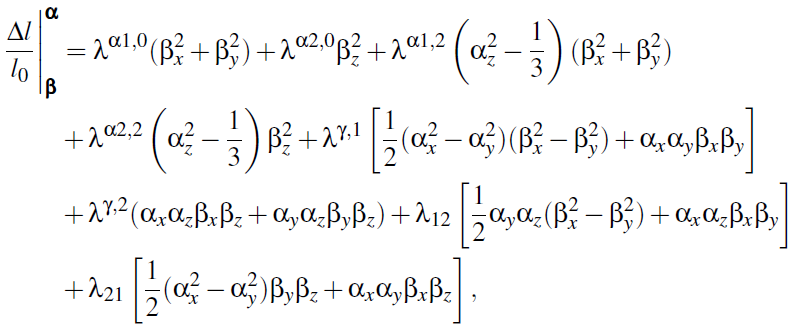
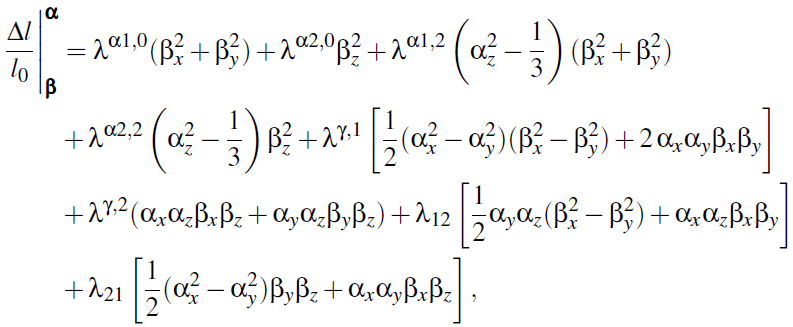
fix trigonal

Changed region(s): [[0.7869, 0.3058, 0.9987, 0.5505]]

diff --git a/maelasviewer.py b/maelasviewer.py
@@ -2154,7 +2154,7 @@ def update_trfig(hx,hy,hz,lmb01,lmb02,lmba1,lmba2,lmbg1,lmbg2,lmb12,lmb21,s,kk1,
     bx = np.sin(u)*np.cos(v)
     by = np.sin(u)*np.sin(v)
     bz = np.cos(u)
-    f = lmb01*(bx**2+by**2)+lmb02*(bz**2)+lmba1*((az**2)-(1/3))*(bx**2+by**2)+lmba2*((az**2)-(1/3))*(bz**2)+lmbg1*(0.5*(ax**2-ay**2)*(bx**2-by**2)+ax*ay*bx*by)+lmbg2*(ax*az*bx*bz+ay*az*by*bz)+lmb12*(0.5*ay*az*(bx**2-by**2)+ax*az*bx*by)+lmb21*(0.5*(ax**2-ay**2)*by*bz+ax*ay*bx*bz)
+    f = lmb01*(bx**2+by**2)+lmb02*(bz**2)+lmba1*((az**2)-(1/3))*(bx**2+by**2)+lmba2*((az**2)-(1/3))*(bz**2)+lmbg1*(0.5*(ax**2-ay**2)*(bx**2-by**2)+2.0*ax*ay*bx*by)+lmbg2*(ax*az*bx*bz+ay*az*by*bz)+lmb12*(0.5*ay*az*(bx**2-by**2)+ax*az*bx*by)+lmb21*(0.5*(ax**2-ay**2)*by*bz+ax*ay*bx*bz)
     x = d*(1.0+s*f)*bx
     y = d*(1.0+s*f)*by
     z = d*(1.0+s*f)*bz
@@ -2269,7 +2269,7 @@ def update_figtr2d(hx,hy,hz,lmb01,lmb02,lmba1,lmba2,lmbg1,lmbg2,lmb12,lmb21,s,kk
     bxxy = np.cos(vxy)
     byxy = np.sin(vxy)
     bzxy = 0.0
-    fxy = lmb01*(bxxy**2+byxy**2)+lmb02*(bzxy**2)+lmba1*((az**2)-(1/3))*(bxxy**2+byxy**2)+lmba2*((az**2)-(1/3))*(bzxy**2)+lmbg1*(0.5*(ax**2-ay**2)*(bxxy**2-byxy**2)+ax*ay*bxxy*byxy)+lmbg2*(ax*az*bxxy*bzxy+ay*az*byxy*bzxy)+lmb12*(0.5*ay*az*(bxxy**2-byxy**2)+ax*az*bxxy*byxy)+lmb21*(0.5*(ax**2-ay**2)*byxy*bzxy+ax*ay*bxxy*bzxy)
+    fxy = lmb01*(bxxy**2+byxy**2)+lmb02*(bzxy**2)+lmba1*((az**2)-(1/3))*(bxxy**2+byxy**2)+lmba2*((az**2)-(1/3))*(bzxy**2)+lmbg1*(0.5*(ax**2-ay**2)*(bxxy**2-byxy**2)+2.0*ax*ay*bxxy*byxy)+lmbg2*(ax*az*bxxy*bzxy+ay*az*byxy*bzxy)+lmb12*(0.5*ay*az*(bxxy**2-byxy**2)+ax*az*bxxy*byxy)+lmb21*(0.5*(ax**2-ay**2)*byxy*bzxy+ax*ay*bxxy*bzxy)
     xxy = d*(1.0+s*fxy)*bxxy
     yxy = d*(1.0+s*fxy)*byxy
     zxy = d*(1.0+s*fxy)*bzxy
@@ -2278,7 +2278,7 @@ def update_figtr2d(hx,hy,hz,lmb01,lmb02,lmba1,lmba2,lmbg1,lmbg2,lmb12,lmb21,s,kk
     bxxz = np.sin(vxz)
     byxz = 0.0
     bzxz = np.cos(vxz)
-    fxz = lmb01*(bxxz**2+byxz**2)+lmb02*(bzxz**2)+lmba1*((az**2)-(1/3))*(bxxz**2+byxz**2)+lmba2*((az**2)-(1/3))*(bzxz**2)+lmbg1*(0.5*(ax**2-ay**2)*(bxxz**2-byxz**2)+ax*ay*bxxz*byxz)+lmbg2*(ax*az*bxxz*bzxz+ay*az*byxz*bzxz)+lmb12*(0.5*ay*az*(bxxz**2-byxz**2)+ax*az*bxxz*byxz)+lmb21*(0.5*(ax**2-ay**2)*byxz*bzxz+ax*ay*bxxz*bzxz)
+    fxz = lmb01*(bxxz**2+byxz**2)+lmb02*(bzxz**2)+lmba1*((az**2)-(1/3))*(bxxz**2+byxz**2)+lmba2*((az**2)-(1/3))*(bzxz**2)+lmbg1*(0.5*(ax**2-ay**2)*(bxxz**2-byxz**2)+2.0*ax*ay*bxxz*byxz)+lmbg2*(ax*az*bxxz*bzxz+ay*az*byxz*bzxz)+lmb12*(0.5*ay*az*(bxxz**2-byxz**2)+ax*az*bxxz*byxz)+lmb21*(0.5*(ax**2-ay**2)*byxz*bzxz+ax*ay*bxxz*bzxz)
     xxz = d*(1.0+s*fxz)*bxxz
     yxz = d*(1.0+s*fxz)*byxz
     zxz = d*(1.0+s*fxz)*bzxz
@@ -2287,7 +2287,7 @@ def update_figtr2d(hx,hy,hz,lmb01,lmb02,lmba1,lmba2,lmbg1,lmbg2,lmb12,lmb21,s,kk
     bxyz = 0.0
     byyz = np.sin(vyz)
     bzyz = np.cos(vyz)
-    fyz = lmb01*(bxyz**2+byyz**2)+lmb02*(bzyz**2)+lmba1*((az**2)-(1/3))*(bxyz**2+byyz**2)+lmba2*((az**2)-(1/3))*(bzyz**2)+lmbg1*(0.5*(ax**2-ay**2)*(bxyz**2-byyz**2)+ax*ay*bxyz*byyz)+lmbg2*(ax*az*bxyz*bzyz+ay*az*byyz*bzyz)+lmb12*(0.5*ay*az*(bxyz**2-byyz**2)+ax*az*bxyz*byyz)+lmb21*(0.5*(ax**2-ay**2)*byyz*bzyz+ax*ay*bxyz*bzyz)
+    fyz = lmb01*(bxyz**2+byyz**2)+lmb02*(bzyz**2)+lmba1*((az**2)-(1/3))*(bxyz**2+byyz**2)+lmba2*((az**2)-(1/3))*(bzyz**2)+lmbg1*(0.5*(ax**2-ay**2)*(bxyz**2-byyz**2)+2.0*ax*ay*bxyz*byyz)+lmbg2*(ax*az*bxyz*bzyz+ay*az*byyz*bzyz)+lmb12*(0.5*ay*az*(bxyz**2-byyz**2)+ax*az*bxyz*byyz)+lmb21*(0.5*(ax**2-ay**2)*byyz*bzyz+ax*ay*bxyz*bzyz)
     xyz = d*(1.0+s*fyz)*bxyz
     yyz = d*(1.0+s*fyz)*byyz
     zyz = d*(1.0+s*fyz)*bzyz
